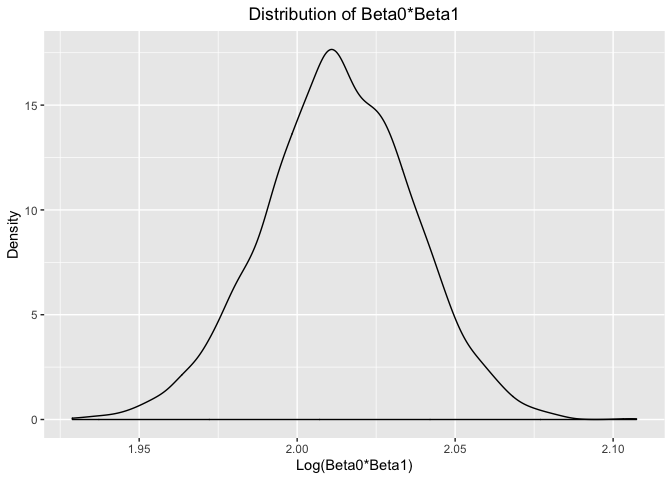
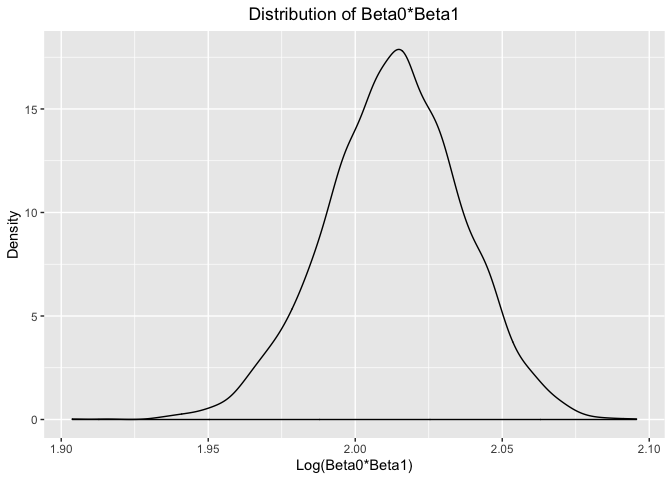
Descriptions and comments made and edited in Problem 2.

diff --git a/p8105_hw6_niz2000.md b/p8105_hw6_niz2000.md
@@ -9,14 +9,14 @@ Nora Zakaria
 library(tidyverse)
 ```
 
-    ## ── Attaching packages ───────────────────────── tidyverse 1.2.1 ──
+    ## ── Attaching packages ───────────────────────────── tidyverse 1.2.1 ──
 
     ## ✔ ggplot2 3.2.1     ✔ purrr   0.3.2
     ## ✔ tibble  2.1.3     ✔ dplyr   0.8.3
     ## ✔ tidyr   1.0.0     ✔ stringr 1.4.0
     ## ✔ readr   1.3.1     ✔ forcats 0.4.0
 
-    ## ── Conflicts ──────────────────────────── tidyverse_conflicts() ──
+    ## ── Conflicts ──────────────────────────────── tidyverse_conflicts() ──
     ## ✖ dplyr::filter() masks stats::filter()
     ## ✖ dplyr::lag()    masks stats::lag()
 
@@ -303,9 +303,10 @@ coefficient for the interaction term between all three predictors.
 ### Comparing Cross-Validated Prediction Errors
 
 In order to compare the “fit,” “main\_effects\_fit,” and
-“interaction\_fit” model, cross-validation will be emplored. Cross
+“interaction\_fit” models, cross-validation will be emplored. Cross
 validation provides a way to compare the predictive performance of
-competing methods.
+competing methods. In this case, models will be compared based on root
+mean squared errors (RMSEs).
 
 ``` r
 cv_df = 
@@ -314,6 +315,11 @@ cv_df =
     train = map(train, as_tibble),
     test = map(test, as_tibble))
 ```
+
+The “crossv\_mc” automates elements of the cross-validation process by
+reforms the testing split multiple times, and stores the datasets using
+list columns. This step is coerced to a dataframe called “cv\_df,” and
+can be treated like a dataframe moving forward.
 
 ``` r
 cv_df = cv_df %>%
@@ -346,12 +352,21 @@ cv_df %>%
 
 ![](p8105_hw6_niz2000_files/figure-gfm/Cross%20Validation-1.png)<!-- -->
 
-Make this comparison in terms of the cross-validated prediction error;
-use crossv\_mc and functions in purrr as appropriate. ADD DESCRIPTION.
+The Cross-Validated Prediction Errors plot provides a violin plot of
+RMSE values for each of the three models: the fit model, the main
+effects model, and the interaction terms model. From these violin plots
+of variance in prediction error, we can compare prediction error
+distributions across models. Based on these results, the interaction
+model (interaction\_fit) is the best model with RMSE values around 285,
+as it has the lowest RMSE relative to the other two models, which both
+have high RMSE around 330 and are similar to each other in spread.
 
 # Problem 2
 
 ## Load 2017 Central Park NOAA Weather Data
+
+The data used for this question is from the NOAA National Climatic Data
+Center, for Central Park, NYC.
 
 ``` r
 weather_df = 
@@ -495,9 +510,11 @@ weather_bootstrap %>%
 ```
 
     ##     2.5%    97.5% 
-    ## 1.964955 2.058922
+    ## 1.965827 2.058338
 
-The 95% confidence interval for the log(β̂ 0∗β̂ 1) is (1.97, 2.06).
+The 95% confidence interval for the log(β̂ 0∗β̂ 1) is (1.97, 2.06). In
+other words, we are 95% confident that the true value of log(β̂ 0∗β̂ 1)
+in the central park weather data is between 1.97 and 2.06.
 
 ## Distribution of r̂ 2
 
@@ -535,6 +552,8 @@ weather_bootstrap %>%
 ```
 
     ##      2.5%     97.5% 
-    ## 0.8946144 0.9277576
+    ## 0.8945301 0.9273151
 
-The 95% confidence interval for the r.squared value is (0.89, 0.93).
+The 95% confidence interval for the “r.squared” value is (0.89, 0.93). .
+In other words, we are 95% confident that the true value of r-squared in
+the central park weather data is between 0.89 and 0.93.
